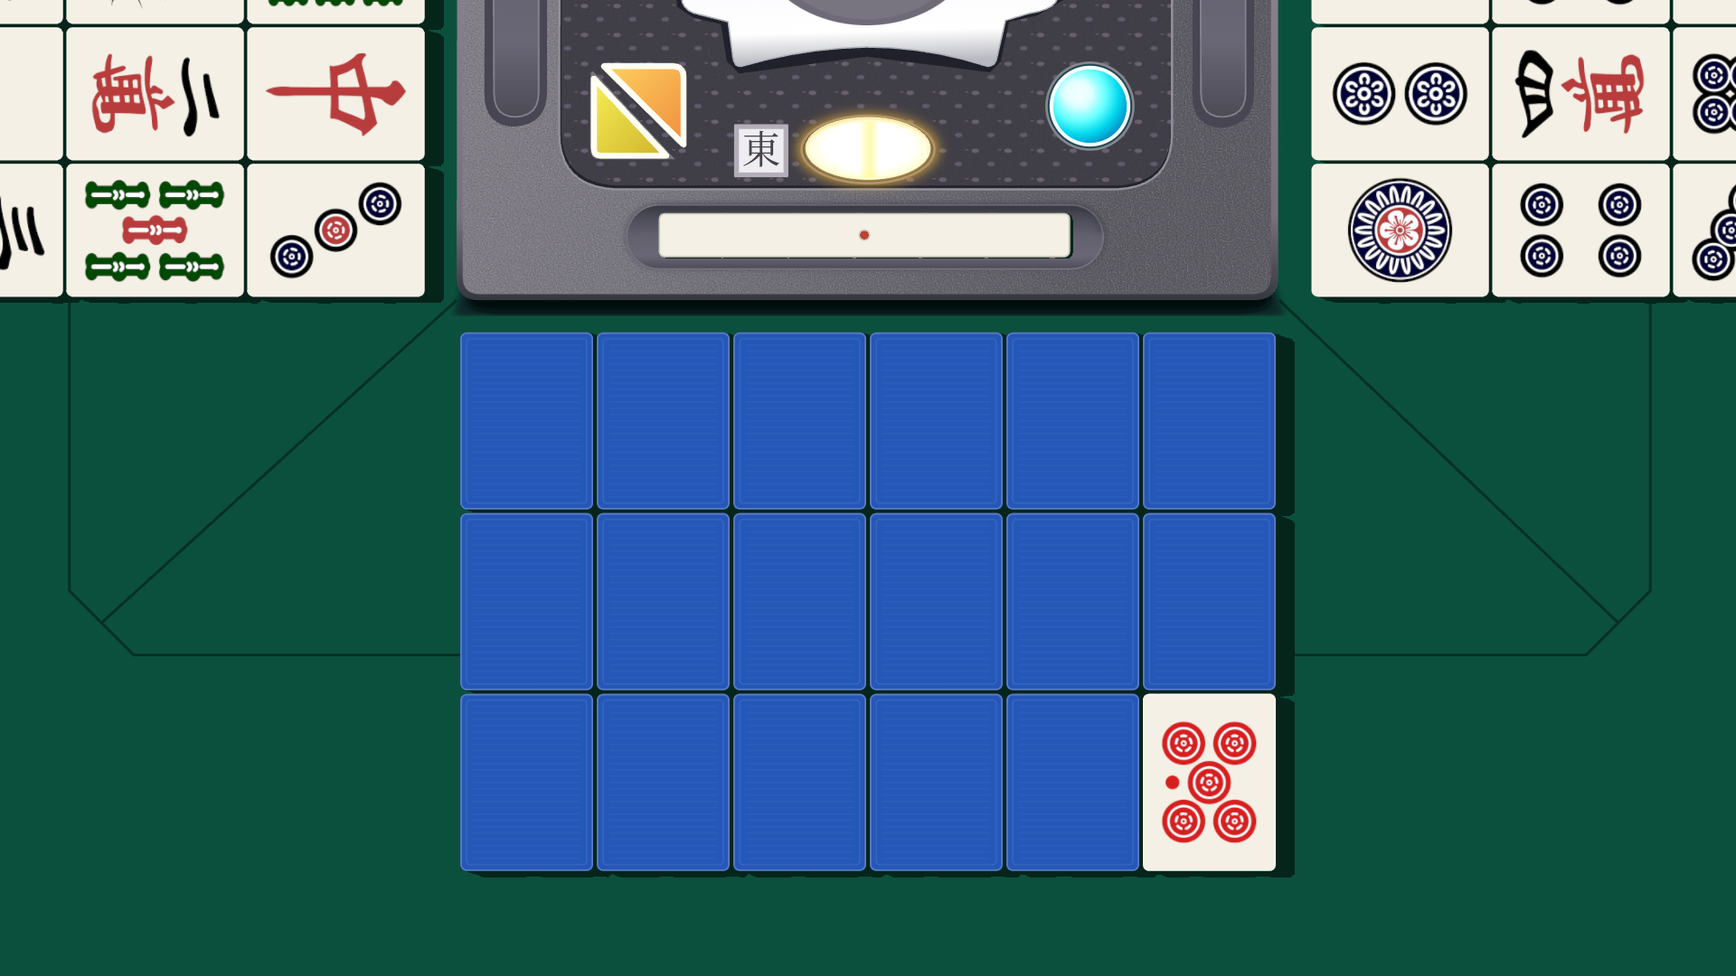
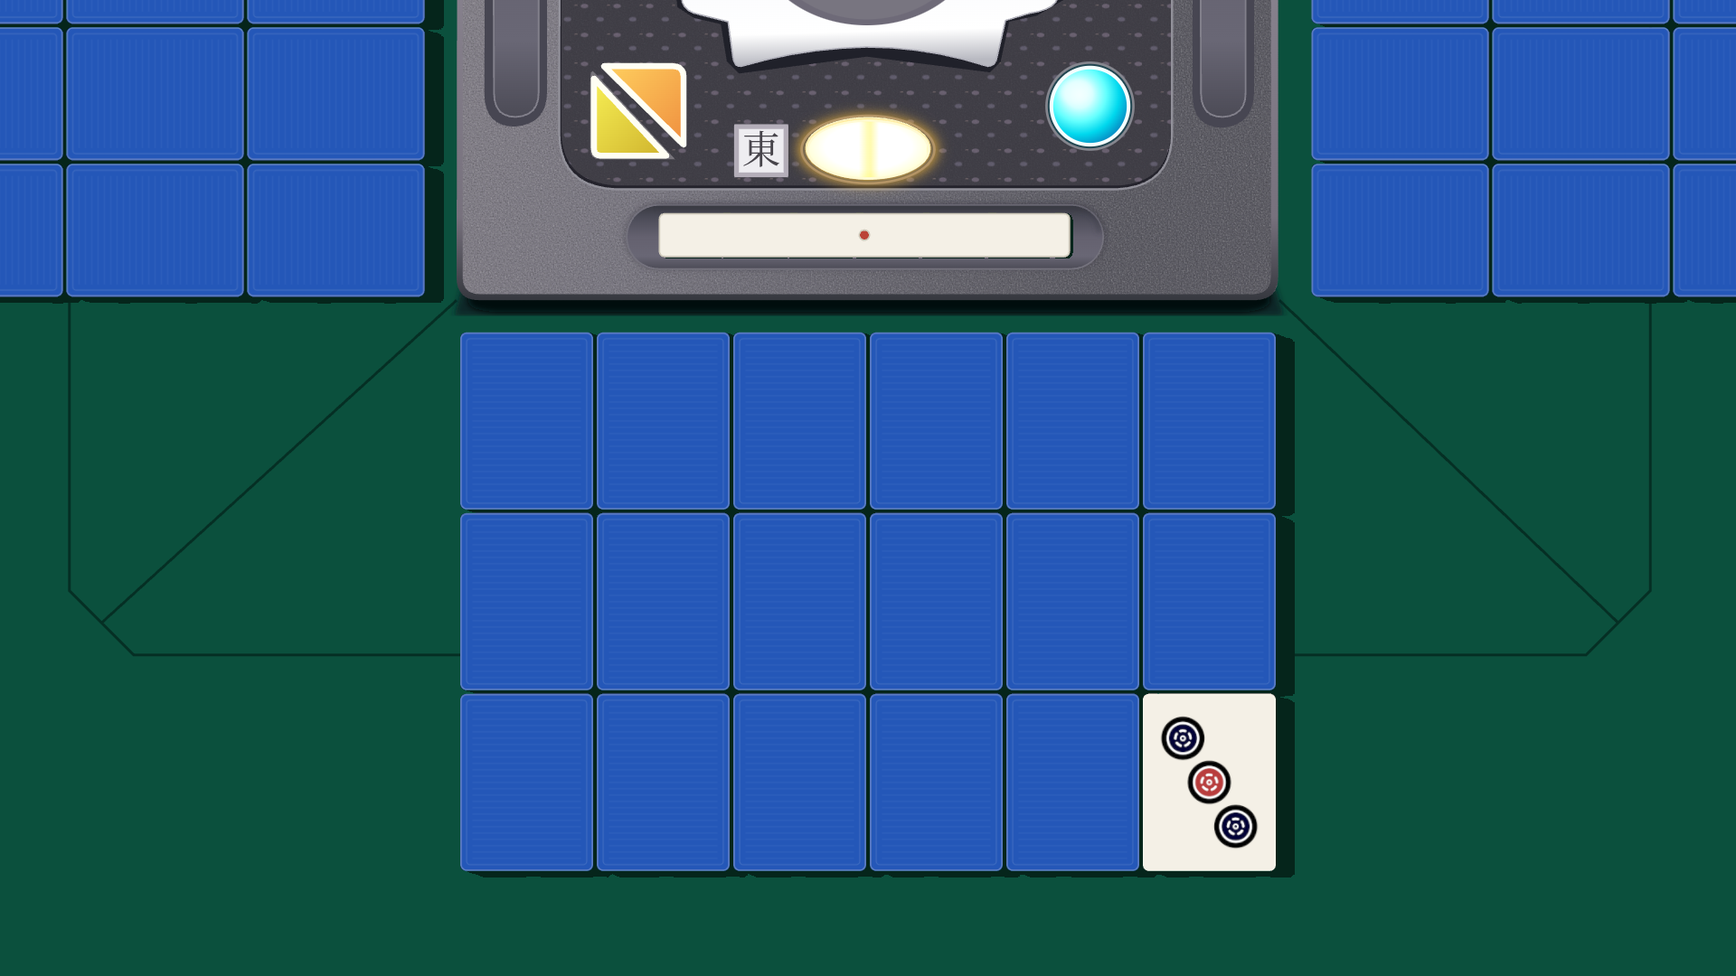
Keep side rivers face down and stage loading before shared entry

Changed region(s): [[0.75, 0.0, 1.0, 0.3056], [0.0, 0.0, 0.25, 0.3056], [0.6562, 0.7333, 0.75, 0.8861]]

diff --git a/app.js b/app.js
@@ -1,10 +1,10 @@
-import { smooth, center, entryScale, flipPose, motionDistance } from './geometry.js?v=20261010-side-rivers';
-import { Mahjong3D } from './mahjong-3d.js?v=20261010-side-rivers';
-import { REST_STICK, STICK_PICKUP_DURATION, createStickDrop, stickMotionDistance } from './score-stick.js?v=20261010-side-rivers';
-import { flipAt, settleFlips, revealTile, resetTiles } from './tile-interactions.js?v=20261010-side-rivers';
-import { RIICHI_FACES, nextRiichiFace, sideRiverFaces } from './riichi-faces.js?v=20261010-side-rivers';
-import { sideRiverCenters } from './river-layout.js?v=20261010-side-rivers';
-import { drawTableSeams, tableLayout } from './table-surface.js?v=20261010-side-rivers';
+import { smooth, center, entryScale, flipPose, motionDistance } from './geometry.js?v=20261010-loading-entry';
+import { Mahjong3D } from './mahjong-3d.js?v=20261010-loading-entry';
+import { REST_STICK, STICK_PICKUP_DURATION, createStickDrop, stickMotionDistance } from './score-stick.js?v=20261010-loading-entry';
+import { flipAt, settleFlips, revealTile, resetTiles } from './tile-interactions.js?v=20261010-loading-entry';
+import { RIICHI_FACES, nextRiichiFace, sideRiverFaces } from './riichi-faces.js?v=20261010-loading-entry';
+import { sideRiverCenters } from './river-layout.js?v=20261010-loading-entry';
+import { drawTableSeams, tableLayout } from './table-surface.js?v=20261010-loading-entry';
 import { CONTROL } from './physical-layout.js';
 
 const $ = (id) => document.getElementById(id);
@@ -16,7 +16,8 @@ const FONT = '"Source Han Sans SC", "Noto Sans CJK SC", "Noto Sans SC", "PingFan
 const COLORS = { table: '#0B503D', back: '#2457B8', front: '#F4F0E6' };
 const UNIT_IDS = ['A', 'A', 'A', 'B', 'B', 'B', 'A', 'A', 'A', 'C', 'C', 'D', 'E', 'E', 'F', 'F', 'G', 'G'];
 const UNIT_NAMES = { A: '主图：观察与秩序', B: '简介：牌河视觉档案', C: '项目：网格实验', D: '关于：整理与创作', E: '文字：近处的秩序', F: '图片：图像研究', G: '联系：一起做点什么' };
-let phase = 'loading', epoch = 0, resetCycle = null;
+let phase = 'loading', epoch = 0, loadingEpoch = 0, resetCycle = null;
+const LOADING_FADE_DURATION = 200, SCENERY_FADE_DURATION = 200;
 let hovered = null, pressed = null;
 let raf = 0, pixelScale = 1, orderCounter = 0;
 let mahjong, consoleImage;
@@ -145,6 +146,7 @@ function paintRiichiFace(canvas, face) {
 function drawConsole() {
   const context = ctx;
   context.fillStyle = COLORS.table; context.fillRect(tabletop.left, 0, tabletop.width, tabletop.height);
+  if (!consoleImage) return;
   drawTableSeams(context);
   // The asset's viewBox is the exact visible reference crop; no upper half of
   // the housing exists outside it. Native buttons use the same coordinates.
@@ -225,8 +227,16 @@ function stickPoseAt(time) {
 function render(time) {
   raf = 0;
   if (phase === 'loading') return;
+  if (phase === 'loading-fade') {
+    $('loading-text').style.opacity = String(1 - smooth((time - loadingEpoch) / LOADING_FADE_DURATION));
+    if (time - loadingEpoch < LOADING_FADE_DURATION) { requestRender(); return; }
+    $('loading').hidden = true;
+    scene.style.visibility = 'visible';
+    epoch = time; phase = 'entry';
+  }
   if (phase === 'entry' && time - epoch >= 1100) {
     phase = 'idle';
+    scene.inert = false;
     $('score-stick').disabled = false;
     $('reset').disabled = false;
     $('status').textContent = '十八张牌已落定。点击蓝背牌，逐张揭示内容。';
@@ -260,14 +270,23 @@ function render(time) {
     $('status').textContent = '牌河已重置。点击蓝背牌，可以再次逐张揭示。';
   }
   board.setAttribute('aria-busy', String(phase === 'entry' || Boolean(resetCycle) || tiles.some((tile) => tile.flips.length)));
-  scene.style.opacity = String(smooth((time - epoch) / 200));
+  const sceneryOpacity = smooth((time - epoch) / SCENERY_FADE_DURATION);
+  canvas.style.opacity = String(sceneryOpacity);
+  document.querySelector('.console').style.opacity = String(sceneryOpacity);
   const currentPoses = tiles.map((tile) => poseAt(tile, time));
   const blur = blurParameters(time);
   const sampledPoses = blur.amount > .002
     ? Array.from({ length: 7 }, (_, index) => tiles.map((tile) => poseAt(tile, time - blur.window * index / 6)))
     : [];
   const stickSamples = sampledPoses.map((_, index) => stickPoseAt(time - blur.window * index / 6));
-  mahjong.render(currentPoses, sampledPoses, blur.amount, stickPoseAt(time), stickSamples);
+  const sidePosesAt = (at) => sideTiles.map(tile => {
+    const q = phase === 'entry' ? entryScale(tile.index, at - epoch) : 1;
+    return { theta: 0, q, height: phase === 'entry' ? (q - 1) / .06 : 0 };
+  });
+  mahjong.render(currentPoses, sampledPoses, blur.amount, stickPoseAt(time), stickSamples, {
+    opacity: sceneryOpacity, sidePoses: sidePosesAt(time),
+    sideSamples: sampledPoses.map((_, index) => sidePosesAt(time - blur.window * index / 6)),
+  });
   const stickBounds = mahjong.getStickBounds(), hitHeight = Math.max(44, stickBounds.height);
   Object.assign($('score-stick').style, {
     left: `${stickBounds.x}px`, top: `${stickBounds.y - (hitHeight - stickBounds.height) / 2}px`,
@@ -380,7 +399,7 @@ for (const id of Object.keys(CONTROL_HINTS)) {
 
 $('reset').addEventListener('click', startReset);
 $('score-stick').addEventListener('click', () => {
-  if (!mahjong || phase === 'loading' || phase === 'entry' || stickDrop) return;
+  if (!mahjong || phase === 'loading' || phase === 'loading-fade' || phase === 'entry' || stickDrop) return;
   stickDrop = createStickDrop(Math.random, restingStick); stickEpoch = performance.now();
   $('score-stick').setAttribute('aria-busy', 'true');
   $('score-stick').dataset.motion = 'lifting';
@@ -395,19 +414,28 @@ document.addEventListener('visibilitychange', () => { if (!document.hidden) requ
 
 async function initialize() {
   createHitTargets();
+  const style = $('page-style');
+  if (!style.sheet || style.media !== 'all') await new Promise((resolve, reject) => {
+    style.addEventListener('load', resolve, { once: true });
+    style.addEventListener('error', () => reject(new Error('Stylesheet failed to load')), { once: true });
+  });
   await document.fonts.ready;
-  await Promise.all([buildTextures(), loadImage('./assets/control-box.svg?v=20261010-side-rivers').then((image) => { consoleImage = image; })]);
+  await Promise.all([buildTextures(), loadImage('./assets/control-box.svg?v=20261010-loading-entry').then((image) => { consoleImage = image; })]);
   mahjong = new Mahjong3D($('mahjong'), tiles, sideTiles);
   updateControlHint();
-  epoch = performance.now();
-  phase = 'entry';
   resize();
+  // Render all passes behind the loader to upload textures and compile shaders
+  // before the shared entry clock starts. No partial scene can become visible.
+  const entryPoses = tiles.map(() => ({ theta: 0, q: 1.06, height: 1 }));
+  const sidePoses = sideTiles.map(() => ({ theta: 0, q: 1.06, height: 1 }));
+  mahjong.render(entryPoses, [entryPoses], 1, REST_STICK, [REST_STICK], { opacity: 0, sidePoses, sideSamples: [sidePoses] });
+  mahjong.renderer.getContext().finish();
+  loadingEpoch = performance.now(); phase = 'loading-fade'; requestRender();
 }
 
 initialize().catch((error) => {
   console.error('牌河资源加载失败', error);
   $('status').textContent = '页面资源加载失败，请刷新后重试。';
-  scene.style.opacity = '1';
-  const fallback = document.createElement('div'); fallback.className = 'no-script';
-  fallback.textContent = '3D 牌河暂时未能启动，请使用支持 WebGL 2 的浏览器并刷新重试。'; scene.append(fallback);
+  $('loading-text').style.opacity = '1';
+  $('loading-text').textContent = '加载失败，请刷新重试。';
 });

diff --git a/mahjong-3d.js b/mahjong-3d.js
@@ -1,7 +1,7 @@
 import * as THREE from './vendor/three.module.js';
-import { SPEC } from './geometry.js?v=20261010-side-rivers';
+import { SPEC } from './geometry.js?v=20261010-loading-entry';
 import { mm } from './physical-layout.js';
-import { STICK, REST_STICK } from './score-stick.js?v=20261010-side-rivers';
+import { STICK, REST_STICK } from './score-stick.js?v=20261010-loading-entry';
 
 // Includes every lifted/rotated silhouette and the light's maximum projected shadow.
 export const VIEW = Object.freeze({ left: -160, top: 0, width: 2240, height: 1040 });
@@ -76,12 +76,16 @@ const ACCUMULATE_FRAGMENT = `
 const COMPOSE_FRAGMENT = `
   uniform sampler2D tiles;
   uniform sampler2D shadows;
+  uniform sampler2D entryStick;
+  uniform float entryStickOpacity;
   varying vec2 vUv;
   void main() {
     // Render targets contain premultiplied linear RGBA, including MSAA edge coverage.
     vec4 tile = texture2D(tiles, vUv);
     vec4 shadow = texture2D(shadows, vUv);
     vec4 result = tile + shadow * (1.0 - tile.a);
+    vec4 stick = texture2D(entryStick, vUv) * entryStickOpacity;
+    result = stick + result * (1.0 - stick.a);
     gl_FragColor = vec4(result.rgb / max(result.a, 0.00001), result.a);
     #include <colorspace_fragment>
   }
@@ -151,10 +155,8 @@ export class Mahjong3D {
     this.groups = tiles.map(tile => makeTile(tile, `tile-${tile.index}`));
     this.sideGroups = sideTiles.map(tile => {
       const group = makeTile(tile, `river-${tile.side}-${tile.index}`);
-      // World Z rotation is applied after the face-up Y flip; this preserves
-      // upright, unmirrored artwork from each neighboring player's viewpoint.
-      group.quaternion.setFromAxisAngle(new THREE.Vector3(0, 0, 1), -tile.rotation)
-        .multiply(new THREE.Quaternion().setFromAxisAngle(new THREE.Vector3(0, 1, 0), Math.PI));
+      // Neighboring rivers stay blue-back up and keep their player orientation.
+      group.rotation.z = -tile.rotation;
       group.userData.face = tile.face.code;
       return group;
     });
@@ -201,6 +203,9 @@ export class Mahjong3D {
     this.sampleTarget = target(true, true, type);
     this.shadowTarget = target(true, false, type);
     this.averageTarget = target(false, false, type);
+    // Allocated at viewport size only during the short scenery fade. The stick
+    // and its real shadow fade together, independently of the tile rivers.
+    this.entryStickTarget = target(true, true, type);
     this.targets = [this.currentTarget, this.sampleTarget, this.shadowTarget, this.averageTarget];
     this.accumulateMaterial = new THREE.ShaderMaterial({
       uniforms: { source: { value: null }, weight: { value: 1 } },
@@ -210,7 +215,7 @@ export class Mahjong3D {
       blendSrc: THREE.OneFactor, blendDst: THREE.OneFactor,
     });
     this.composeMaterial = new THREE.ShaderMaterial({
-      uniforms: { tiles: { value: null }, shadows: { value: this.shadowTarget.texture } },
+      uniforms: { tiles: { value: null }, shadows: { value: this.shadowTarget.texture }, entryStick: { value: this.entryStickTarget.texture }, entryStickOpacity: { value: 0 } },
       vertexShader: QUAD_VERTEX, fragmentShader: COMPOSE_FRAGMENT,
       depthTest: false, depthWrite: false, toneMapped: false, blending: THREE.NoBlending,
     });
@@ -282,6 +287,13 @@ export class Mahjong3D {
     this.world.updateMatrixWorld(true);
   }
 
+  applySidePoses(poses = []) {
+    this.sideGroups.forEach((group, index) => {
+      const transform = tileTransform(poses[index] ?? { theta: 0, q: 1, height: 0 });
+      group.scale.setScalar(transform.scale); group.position.z = transform.z;
+    });
+  }
+
   clearTarget(target) {
     this.renderer.setRenderTarget(target);
     this.renderer.clear(true, true, false);
@@ -299,7 +311,10 @@ export class Mahjong3D {
     this.renderer.render(this.quadScene, this.quadCamera);
   }
 
-  render(currentPoses, sampledPoses, amount, stickPose = REST_STICK, stickSamples = []) {
+  render(currentPoses, sampledPoses, amount, stickPose = REST_STICK, stickSamples = [], entrance = {}) {
+    const opacity = entrance.opacity ?? 1, fading = opacity < 1;
+    this.applySidePoses(entrance.sidePoses);
+    this.stick.visible = !fading;
     this.applyPoses(currentPoses, stickPose);
     this.receiver.visible = true;
     // Casters contribute depth and real shadows, but no color in this pass.
@@ -316,13 +331,28 @@ export class Mahjong3D {
       this.clearTarget(this.averageTarget);
       this.addSample(this.currentTarget.texture, 1 - amount);
       for (const [index, poses] of sampledPoses.entries()) {
+        this.applySidePoses(entrance.sideSamples?.[index]);
         this.applyPoses(poses, stickSamples[index] ?? stickPose);
         this.renderTileTarget(this.sampleTarget);
         this.addSample(this.sampleTarget.texture, amount / sampledPoses.length);
       }
       output = this.averageTarget.texture;
+      this.applySidePoses(entrance.sidePoses);
       this.applyPoses(currentPoses, stickPose);
     }
+    if (fading) {
+      this.entryStickTarget.setSize(this.currentTarget.width, this.currentTarget.height);
+      for (const group of [...this.groups, ...this.sideGroups]) group.visible = false;
+      this.stick.visible = true; this.receiver.visible = true;
+      this.renderer.shadowMap.autoUpdate = true;
+      this.renderTileTarget(this.entryStickTarget);
+      this.renderer.shadowMap.autoUpdate = false;
+      this.receiver.visible = false;
+      for (const group of [...this.groups, ...this.sideGroups]) group.visible = true;
+    } else if (this.entryStickTarget.width !== 1 || this.entryStickTarget.height !== 1) {
+      this.entryStickTarget.setSize(1, 1);
+    }
+    this.composeMaterial.uniforms.entryStickOpacity.value = fading ? opacity : 0;
     this.composeMaterial.uniforms.tiles.value = output;
     this.quad.material = this.composeMaterial;
     this.clearTarget(null); this.renderer.render(this.quadScene, this.quadCamera);
@@ -340,6 +370,7 @@ export class Mahjong3D {
 
   dispose() {
     this.targets.forEach((target) => target.dispose());
+    this.entryStickTarget.dispose();
     this.materials.forEach((material) => material.dispose());
     this.textures.forEach((texture) => texture.dispose());
     Object.values(this.geometries).forEach((geometry) => geometry.dispose());

diff --git a/index.html b/index.html
@@ -6,17 +6,25 @@
     <meta name="theme-color" content="#0B503D">
     <meta name="description" content="牌河视觉档案：以十八张麻将牌收藏图像、文字与项目。点击一张牌，展开一段观察。">
     <title>牌河视觉档案 · ShinRyu</title>
+    <style>
+      html, body { width: 100%; height: 100%; margin: 0; overflow: hidden; background: #0b503d; }
+      #scene { visibility: hidden; }
+      #loading { position: fixed; inset: 0; display: grid; place-items: center; background: #0b503d; color: #f4f0e6; font: 16px sans-serif; z-index: 100; }
+      #loading[hidden] { display: none; }
+    </style>
     <link rel="icon" href="./assets/favicon.svg" type="image/svg+xml">
-    <link rel="stylesheet" href="./styles.css?v=20261010-side-rivers">
-    <script src="./app.js?v=20261010-side-rivers" type="module"></script>
+    <link id="page-style" rel="stylesheet" href="./styles.css?v=20261010-loading-entry" media="print" onload="this.media='all'">
+    <noscript><link rel="stylesheet" href="./styles.css?v=20261010-loading-entry"></noscript>
+    <script src="./app.js?v=20261010-loading-entry" type="module"></script>
   </head>
   <body>
+    <div id="loading" role="status" aria-live="polite"><span id="loading-text">loading</span></div>
     <main id="viewport" aria-label="牌河视觉档案">
-      <div id="scene">
+      <div id="scene" inert>
         <div id="board" aria-label="麻将桌上的视觉档案" aria-busy="true">
           <canvas id="table" width="1920" height="1080" aria-hidden="true"></canvas>
           <canvas id="mahjong" width="2240" height="1040" aria-hidden="true"></canvas>
-          <div class="sr-only" role="img" aria-label="左侧上家及右侧下家的牌河，牌面常亮，仅供展示。"></div>
+          <div class="sr-only" role="img" aria-label="左侧上家及右侧下家的牌河，牌背朝上，仅供展示。"></div>
           <header class="console" aria-label="麻将桌控制盒">
             <button id="reset" class="mechanical reset" type="button" aria-label="黄色灯重置：从左上角波纹补齐翻开，再波纹翻回蓝背" disabled>
               <span class="button-top" aria-hidden="true"></span>
@@ -33,6 +41,6 @@
     </main>
     <p id="status" class="sr-only" role="status" aria-live="polite">正在准备牌河。</p>
     <p id="stick-status" class="sr-only" role="status" aria-live="polite"></p>
-    <noscript><div class="no-script">牌河视觉档案需要 JavaScript 展示翻牌交互。请启用 JavaScript 后刷新页面。<a href="https://github.com/5h1nRyu/ShinRyu">查看项目</a></div></noscript>
+    <noscript><style>#loading { display: none; }</style><div class="no-script">牌河视觉档案需要 JavaScript 展示翻牌交互。请启用 JavaScript 后刷新页面。<a href="https://github.com/5h1nRyu/ShinRyu">查看项目</a></div></noscript>
   </body>
 </html>

diff --git a/styles.css b/styles.css
@@ -11,9 +11,9 @@ button, a { -webkit-tap-highlight-color: transparent; }
 button { font: inherit; cursor: pointer; }
 button:focus-visible, a:focus-visible { outline: 2px solid #f4f0e6; outline-offset: 5px; }
 #viewport { position: fixed; inset: 0; overflow: hidden; }
-#scene { position: absolute; width: 1920px; height: 1080px; transform-origin: 0 0; opacity: 0; }
+#scene { position: absolute; width: 1920px; height: 1080px; transform-origin: 0 0; visibility: hidden; }
 #board, #tiles { position: absolute; inset: 0; width: 1920px; height: 1080px; }
-#table { position: absolute; left: 0; top: 0; width: 1920px; height: 1080px; }
+#table { position: absolute; left: 0; top: 0; width: 1920px; height: 1080px; opacity: 0; }
 #mahjong { position: absolute; left: -160px; top: 0; width: 2240px; height: 1040px; }
 #table, #mahjong { pointer-events: none; }
 .stick-hit {
@@ -23,7 +23,7 @@ button:focus-visible, a:focus-visible { outline: 2px solid #f4f0e6; outline-offs
 .stick-hit[aria-busy="true"] { cursor: default; }
 .console {
   position: absolute; left: var(--console-left); top: 0; width: 698px; height: 262px;
-  z-index: 30; pointer-events: none; transform-origin: 0 0;
+  z-index: 30; pointer-events: none; transform-origin: 0 0; opacity: 0;
   transform: scale(var(--console-scale));
 }
 .console .mechanical { pointer-events: auto; }

diff --git a/river-layout.js b/river-layout.js
@@ -1,4 +1,4 @@
-import { SPEC, center } from './geometry.js?v=20261010-side-rivers';
+import { SPEC, center } from './geometry.js?v=20261010-loading-entry';
 import { CONTROL } from './physical-layout.js';
 
 // Rotate the main river around the full square control box, including the part

diff --git a/tile-interactions.js b/tile-interactions.js
@@ -1,4 +1,4 @@
-import { SPEC, rippleDelay } from './geometry.js?v=20261010-side-rivers';
+import { SPEC, rippleDelay } from './geometry.js?v=20261010-loading-entry';
 export const RESET_PAUSE = 500;
 
 export function flipAt(tile, time) {

diff --git a/README.md b/README.md
@@ -24,9 +24,15 @@
 
 左侧上家、右侧下家各补全一个 6 × 3 的三维牌河，围绕完整方形控制盒的中心分别旋转 90°。牌体尺寸与间隔和主牌河相同，朝向对应玩家；屏幕边缘自然裁切超出的部分。正面采用同一套本地日麻 SVG，保持四周留白，使用原有三渲二材质和唯一方向光的真实阴影。
 
-两侧共用一个由 **34 种普通牌面各两张**构成的随机牌池，页面加载时不放回抽取 36 张。排除赤五 `0m`、`0p`、`0s`，两侧合计同一种牌最多两张。新增牌始终正面朝上，没有鼠标、键盘或触屏交互，不受重置和点棒动画影响；重置不会重新抽取这些牌面。主牌河右下角牌仍按原来的规则在每次重置后换牌。
+两侧共用一个由 **34 种普通牌面各两张**构成的随机牌池，页面加载时不放回抽取 36 张。排除赤五 `0m`、`0p`、`0s`，两侧合计同一种牌最多两张。新增牌改为始终**蓝背朝上**，随机正面保留在背面，没有鼠标、键盘或触屏交互，不受重置和点棒动画影响；重置不会重新抽取这些牌面。主牌河右下角牌仍按原来的规则在每次重置后换牌。
 
-![上移的主牌河与默认翻开的两侧牌河](docs/v2-riichi-preview.png)
+![上移的主牌河与牌背朝上的两侧牌河](docs/v2-riichi-preview.png)
+
+## 加载与统一入场
+
+加载期间只显示纯绿背景和屏幕中央的 `loading`。加载样式采用不阻塞首次绘制的方式，并在 HTML 内提供最小的加载画面样式；样式、字体、全部图片与三维模型就绪后，先在加载层背后预绘制三维通道，完成贴图上传和着色器编译。
+
+准备完成后，`loading` 文字用 **200 ms** 淡出，整个场景仍隐藏。文字淡出结束才统一开始入场：桌面接缝、二维控制盒与点棒及其真实阴影同步用 **200 ms** 淡入；主牌河和两侧牌河保持蓝背，采用现有逐张缩放与落定动画，不参与整体淡入。入场计时重新从零开始，**1100 ms** 后开放原有交互；加载和入场期间整个场景不可聚焦或点击。系统“减少动态效果”设置不会跳过此流程。
 
 ## 参考图控制盒
 
@@ -42,7 +48,7 @@
 
 ## 保持的交互
 
-- 初次打开：18 张蓝背进场，1100 ms 后可操作，不自动揭示。
+- 初次打开：中央 loading 淡出后，全部牌河的蓝背统一进场，其他部件同步淡入；入场开始 1100 ms 后可操作，不自动揭示。
 - 点击蓝背牌：只翻开点击的这一张，动画 600 ms；不同牌可以同时翻开，重复点击正在翻开的牌不会重启动画。
 - **黄色灯重置**：进场完成后即可操作。第一轮从左上角按距离依次检查，跳过正面牌，把蓝背牌翻开。波纹在 600 ms 到达右下角并完成判断，再等待 **500 ms**；第二轮于 1100 ms 从左上角发出，将所有牌翻回蓝背。全部动画在 2300 ms 完成；正在单独翻开的牌会完成当前动画后再翻回。重置期间忽略重复重置和单牌点击。
 - 单牌悬停：围绕自身中心放大 4%，独立内容同步变化，邻牌不缩放。
@@ -107,7 +113,7 @@ python3 -m http.server 8080
 
 部署完成后访问 **https://5h1nryu.github.io/ShinRyu/**。
 
-本次更新给入口脚本、样式、麻将与点棒模块、翻牌交互模块、日麻牌面模块、桌面接缝模块和控制盒图片的 URL 加了 `v=20261010-side-rivers` 版本参数，让浏览器和 CDN 按新地址获取资源。后续修改这些资源时应同步更新对应版本参数，包括引用它们的模块入口。
+本次更新给入口脚本、样式、麻将与点棒模块、翻牌交互模块、日麻牌面模块、桌面接缝模块和控制盒图片的 URL 加了 `v=20261010-loading-entry` 版本参数，让浏览器和 CDN 按新地址获取资源。后续修改这些资源时应同步更新对应版本参数，包括引用它们的模块入口。
 
 ## 检查与文件
 
